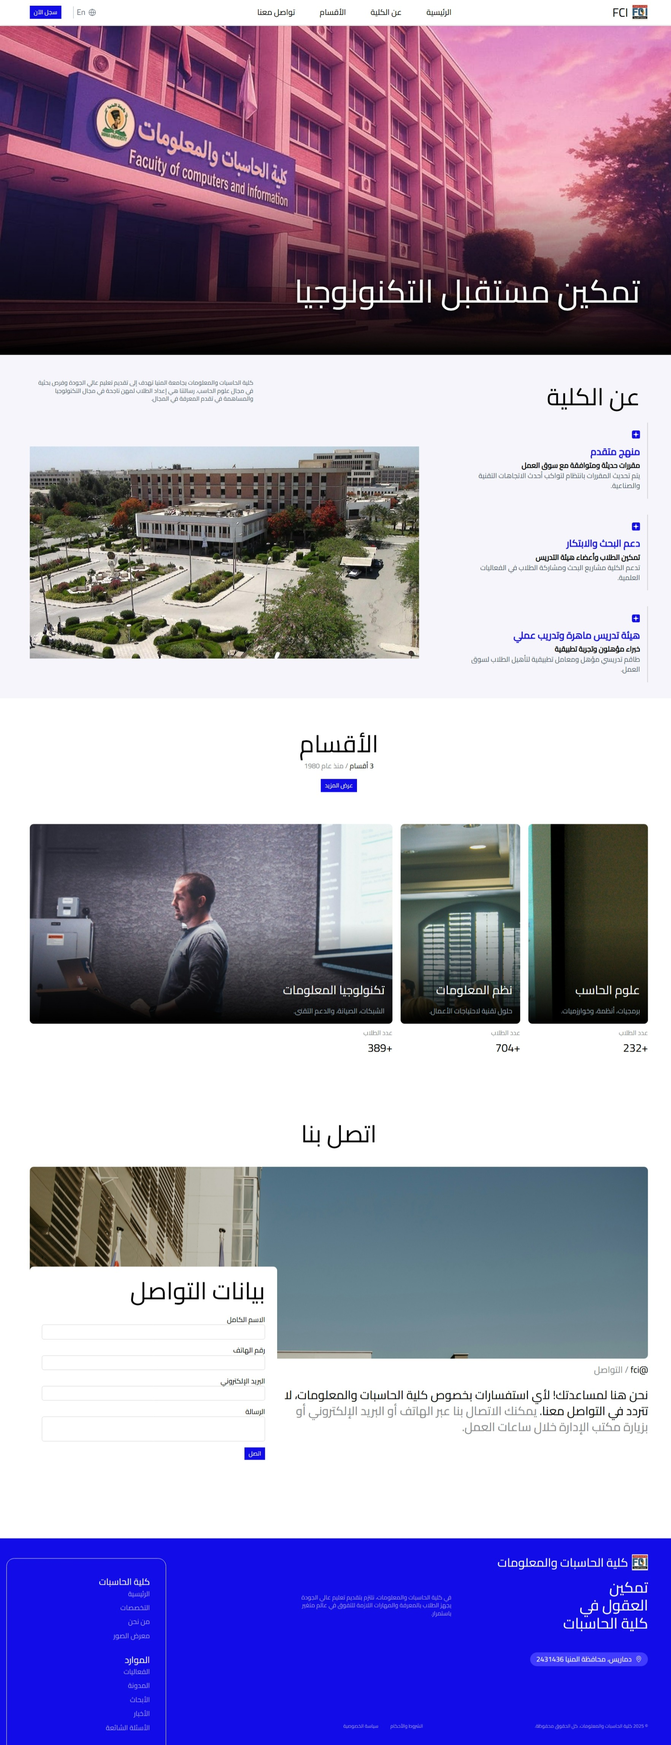
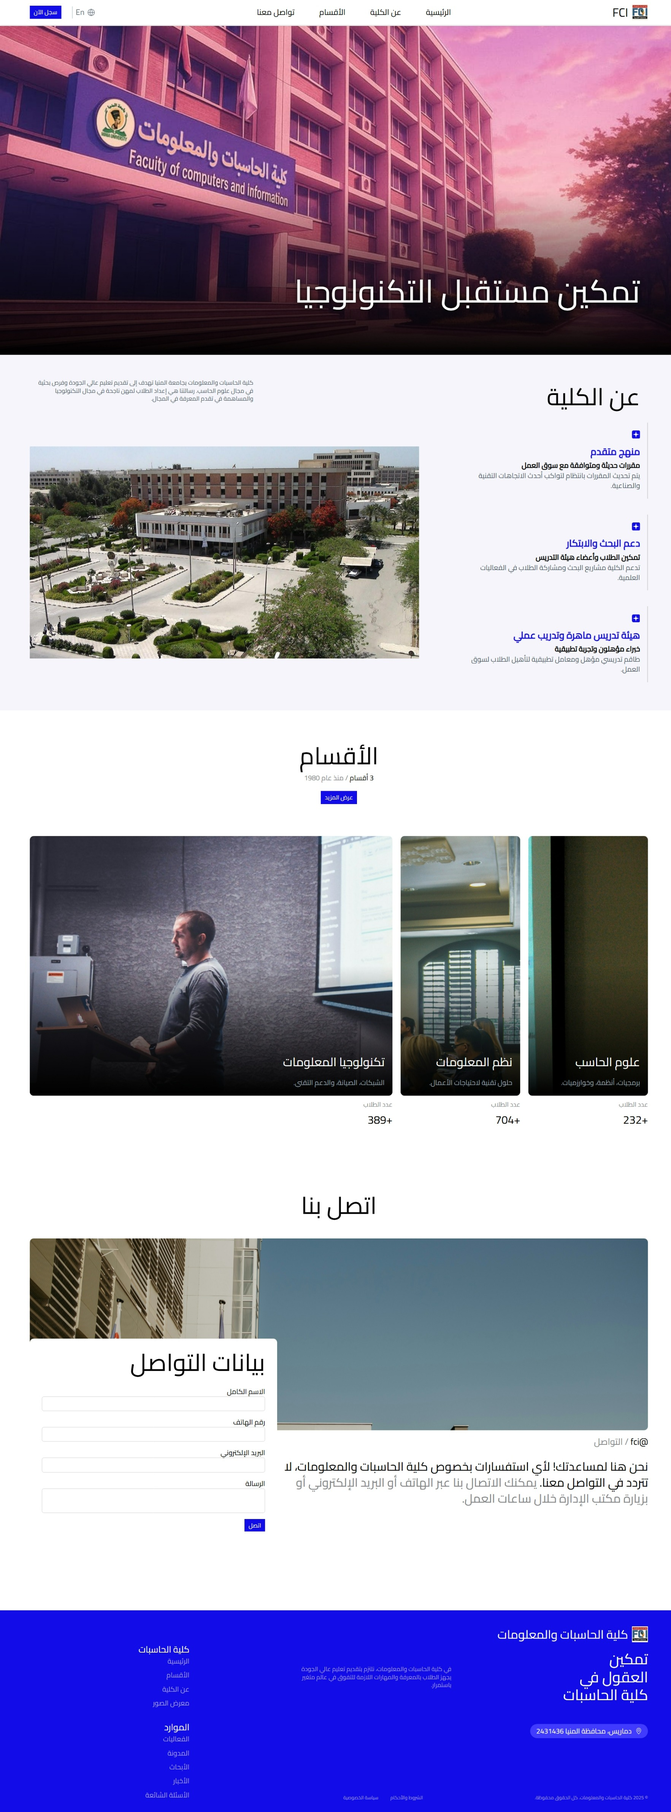
Update screenshots: Replace Ar.jpeg, CS Dept.jpeg, and En.jpeg with new versions

diff --git a/output.css b/output.css
@@ -1,2 +1,2 @@
 /*! tailwindcss v4.1.7 | MIT License | https://tailwindcss.com */
-@layer properties{@supports (((-webkit-hyphens:none)) and (not (margin-trim:inline))) or ((-moz-orient:inline) and (not (color:rgb(from red r g b)))){*,:before,:after,::backdrop{--tw-rotate-x:initial;--tw-rotate-y:initial;--tw-rotate-z:initial;--tw-skew-x:initial;--tw-skew-y:initial;--tw-border-style:solid;--tw-font-weight:initial;--tw-shadow:0 0 #0000;--tw-shadow-color:initial;--tw-shadow-alpha:100%;--tw-inset-shadow:0 0 #0000;--tw-inset-shadow-color:initial;--tw-inset-shadow-alpha:100%;--tw-ring-color:initial;--tw-ring-shadow:0 0 #0000;--tw-inset-ring-color:initial;--tw-inset-ring-shadow:0 0 #0000;--tw-ring-inset:initial;--tw-ring-offset-width:0px;--tw-ring-offset-color:#fff;--tw-ring-offset-shadow:0 0 #0000;--tw-duration:initial;--tw-content:"";--tw-outline-style:solid}}}@layer theme{:root,:host{--font-sans:ui-sans-serif,system-ui,sans-serif,"Apple Color Emoji","Segoe UI Emoji","Segoe UI Symbol","Noto Color Emoji";--font-mono:ui-monospace,SFMono-Regular,Menlo,Monaco,Consolas,"Liberation Mono","Courier New",monospace;--color-amber-50:oklch(98.7% .022 95.277);--color-sky-500:oklch(68.5% .169 237.323);--color-blue-600:oklch(54.6% .245 262.881);--color-blue-700:oklch(48.8% .243 264.376);--color-pink-500:oklch(65.6% .241 354.308);--color-pink-600:oklch(59.2% .249 .584);--color-gray-100:oklch(96.7% .003 264.542);--color-gray-200:oklch(92.8% .006 264.531);--color-gray-300:oklch(87.2% .01 258.338);--color-gray-400:oklch(70.7% .022 261.325);--color-gray-500:oklch(55.1% .027 264.364);--color-gray-600:oklch(44.6% .03 256.802);--color-black:#000;--color-white:#fff;--spacing:.25rem;--container-xs:20rem;--container-md:28rem;--text-xs:.75rem;--text-xs--line-height:calc(1/.75);--text-sm:.875rem;--text-sm--line-height:calc(1.25/.875);--text-lg:1.125rem;--text-lg--line-height:calc(1.75/1.125);--text-xl:1.25rem;--text-xl--line-height:calc(1.75/1.25);--text-2xl:1.5rem;--text-2xl--line-height:calc(2/1.5);--text-3xl:1.875rem;--text-3xl--line-height:calc(2.25/1.875);--text-4xl:2.25rem;--text-4xl--line-height:calc(2.5/2.25);--text-5xl:3rem;--text-5xl--line-height:1;--text-6xl:3.75rem;--text-6xl--line-height:1;--text-7xl:4.5rem;--text-7xl--line-height:1;--font-weight-thin:100;--font-weight-extralight:200;--font-weight-bold:700;--radius-md:.375rem;--radius-lg:.5rem;--radius-2xl:1rem;--default-transition-duration:.15s;--default-transition-timing-function:cubic-bezier(.4,0,.2,1);--default-font-family:var(--font-sans);--default-mono-font-family:var(--font-mono)}}@layer base{*,:after,:before,::backdrop{box-sizing:border-box;border:0 solid;margin:0;padding:0}::file-selector-button{box-sizing:border-box;border:0 solid;margin:0;padding:0}html,:host{-webkit-text-size-adjust:100%;tab-size:4;line-height:1.5;font-family:var(--default-font-family,ui-sans-serif,system-ui,sans-serif,"Apple Color Emoji","Segoe UI Emoji","Segoe UI Symbol","Noto Color Emoji");font-feature-settings:var(--default-font-feature-settings,normal);font-variation-settings:var(--default-font-variation-settings,normal);-webkit-tap-highlight-color:transparent}hr{height:0;color:inherit;border-top-width:1px}abbr:where([title]){-webkit-text-decoration:underline dotted;text-decoration:underline dotted}h1,h2,h3,h4,h5,h6{font-size:inherit;font-weight:inherit}a{color:inherit;-webkit-text-decoration:inherit;-webkit-text-decoration:inherit;-webkit-text-decoration:inherit;text-decoration:inherit}b,strong{font-weight:bolder}code,kbd,samp,pre{font-family:var(--default-mono-font-family,ui-monospace,SFMono-Regular,Menlo,Monaco,Consolas,"Liberation Mono","Courier New",monospace);font-feature-settings:var(--default-mono-font-feature-settings,normal);font-variation-settings:var(--default-mono-font-variation-settings,normal);font-size:1em}small{font-size:80%}sub,sup{vertical-align:baseline;font-size:75%;line-height:0;position:relative}sub{bottom:-.25em}sup{top:-.5em}table{text-indent:0;border-color:inherit;border-collapse:collapse}:-moz-focusring{outline:auto}progress{vertical-align:baseline}summary{display:list-item}ol,ul,menu{list-style:none}img,svg,video,canvas,audio,iframe,embed,object{vertical-align:middle;display:block}img,video{max-width:100%;height:auto}button,input,select,optgroup,textarea{font:inherit;font-feature-settings:inherit;font-variation-settings:inherit;letter-spacing:inherit;color:inherit;opacity:1;background-color:#0000;border-radius:0}::file-selector-button{font:inherit;font-feature-settings:inherit;font-variation-settings:inherit;letter-spacing:inherit;color:inherit;opacity:1;background-color:#0000;border-radius:0}:where(select:is([multiple],[size])) optgroup{font-weight:bolder}:where(select:is([multiple],[size])) optgroup option{padding-inline-start:20px}::file-selector-button{margin-inline-end:4px}::placeholder{opacity:1}@supports (not ((-webkit-appearance:-apple-pay-button))) or (contain-intrinsic-size:1px){::placeholder{color:currentColor}@supports (color:color-mix(in lab, red, red)){::placeholder{color:color-mix(in oklab,currentcolor 50%,transparent)}}}textarea{resize:vertical}::-webkit-search-decoration{-webkit-appearance:none}::-webkit-date-and-time-value{min-height:1lh;text-align:inherit}::-webkit-datetime-edit{display:inline-flex}::-webkit-datetime-edit-fields-wrapper{padding:0}::-webkit-datetime-edit{padding-block:0}::-webkit-datetime-edit-year-field{padding-block:0}::-webkit-datetime-edit-month-field{padding-block:0}::-webkit-datetime-edit-day-field{padding-block:0}::-webkit-datetime-edit-hour-field{padding-block:0}::-webkit-datetime-edit-minute-field{padding-block:0}::-webkit-datetime-edit-second-field{padding-block:0}::-webkit-datetime-edit-millisecond-field{padding-block:0}::-webkit-datetime-edit-meridiem-field{padding-block:0}:-moz-ui-invalid{box-shadow:none}button,input:where([type=button],[type=reset],[type=submit]){appearance:button}::file-selector-button{appearance:button}::-webkit-inner-spin-button{height:auto}::-webkit-outer-spin-button{height:auto}[hidden]:where(:not([hidden=until-found])){display:none!important}}@layer components;@layer utilities{.relative{position:relative}.sticky{position:sticky}.top-0{top:calc(var(--spacing)*0)}.top-2{top:calc(var(--spacing)*2)}.right-0{right:calc(var(--spacing)*0)}.right-\[-15\%\]{right:-15%}.bottom-60{bottom:calc(var(--spacing)*60)}.left-\[-15\%\]{left:-15%}.-z-20{z-index:calc(20*-1)}.z-10{z-index:10}.container{width:100%}@media (min-width:40rem){.container{max-width:40rem}}@media (min-width:48rem){.container{max-width:48rem}}@media (min-width:64rem){.container{max-width:64rem}}@media (min-width:80rem){.container{max-width:80rem}}@media (min-width:96rem){.container{max-width:96rem}}.\!mt-8{margin-top:calc(var(--spacing)*8)!important}.\!mt-12{margin-top:calc(var(--spacing)*12)!important}.mt-4{margin-top:calc(var(--spacing)*4)}.mt-6{margin-top:calc(var(--spacing)*6)}.mt-8{margin-top:calc(var(--spacing)*8)}.mt-16{margin-top:calc(var(--spacing)*16)}.\!mr-auto{margin-right:auto!important}.\!mb-16{margin-bottom:calc(var(--spacing)*16)!important}.mb-2{margin-bottom:calc(var(--spacing)*2)}.mb-4{margin-bottom:calc(var(--spacing)*4)}.mb-6{margin-bottom:calc(var(--spacing)*6)}.mb-10{margin-bottom:calc(var(--spacing)*10)}.mb-12{margin-bottom:calc(var(--spacing)*12)}.\!ml-auto{margin-left:auto!important}.contents{display:contents}.flex{display:flex}.grid{display:grid}.hidden{display:none}.\!h-full{height:100%!important}.h-6{height:calc(var(--spacing)*6)}.h-8{height:calc(var(--spacing)*8)}.h-\[350px\]{height:350px}.h-auto{height:auto}.h-fit{height:fit-content}.max-h-96{max-height:calc(var(--spacing)*96)}.w-6{width:calc(var(--spacing)*6)}.w-8{width:calc(var(--spacing)*8)}.w-36{width:calc(var(--spacing)*36)}.w-fit{width:fit-content}.w-full{width:100%}.max-w-full{max-width:100%}.max-w-xs{max-width:var(--container-xs)}.min-w-\[20rem\]{min-width:20rem}.grow{flex-grow:1}.grow-0{flex-grow:0}.grow-1{flex-grow:1}.basis-1\/3{flex-basis:33.3333%}.basis-auto{flex-basis:auto}.transform{transform:var(--tw-rotate-x,)var(--tw-rotate-y,)var(--tw-rotate-z,)var(--tw-skew-x,)var(--tw-skew-y,)}.cursor-pointer{cursor:pointer}.grid-cols-2{grid-template-columns:repeat(2,minmax(0,1fr))}.flex-col{flex-direction:column}.flex-col-reverse{flex-direction:column-reverse}.flex-row{flex-direction:row}.items-center{align-items:center}.items-end-safe{align-items:safe flex-end}.items-stretch{align-items:stretch}.justify-between{justify-content:space-between}.justify-center{justify-content:center}.justify-end{justify-content:flex-end}.justify-end-safe{justify-content:safe flex-end}.justify-start{justify-content:flex-start}.gap-1{gap:calc(var(--spacing)*1)}.gap-1\.5{gap:calc(var(--spacing)*1.5)}.gap-2{gap:calc(var(--spacing)*2)}.gap-3{gap:calc(var(--spacing)*3)}.gap-4{gap:calc(var(--spacing)*4)}.gap-6{gap:calc(var(--spacing)*6)}.gap-8{gap:calc(var(--spacing)*8)}.gap-10{gap:calc(var(--spacing)*10)}.gap-12{gap:calc(var(--spacing)*12)}.gap-16{gap:calc(var(--spacing)*16)}.gap-56{gap:calc(var(--spacing)*56)}.self-center{align-self:center}.self-start{align-self:flex-start}.truncate{text-overflow:ellipsis;white-space:nowrap;overflow:hidden}.overflow-hidden{overflow:hidden}.rounded-2xl{border-radius:var(--radius-2xl)}.rounded-\[8px\]{border-radius:8px}.rounded-\[20px\]{border-radius:20px}.rounded-full{border-radius:3.40282e38px}.rounded-lg{border-radius:var(--radius-lg)}.border,.border-1{border-style:var(--tw-border-style);border-width:1px}.border-2{border-style:var(--tw-border-style);border-width:2px}.border-t-0{border-top-style:var(--tw-border-style);border-top-width:0}.border-\[\#f1f1f1\]{border-color:#f1f1f1}.border-gray-300{border-color:var(--color-gray-300)}.border-transparent{border-color:#0000}.bg-\[\#120ce8\]{background-color:#120ce8}.bg-\[\#413bff\]{background-color:#413bff}.bg-\[\#f6f5fb\]{background-color:#f6f5fb}.bg-white{background-color:var(--color-white)}.object-cover{object-fit:cover}.p-2{padding:calc(var(--spacing)*2)}.p-4{padding:calc(var(--spacing)*4)}.p-8{padding:calc(var(--spacing)*8)}.px-2{padding-inline:calc(var(--spacing)*2)}.px-3{padding-inline:calc(var(--spacing)*3)}.px-6{padding-inline:calc(var(--spacing)*6)}.py-1{padding-block:calc(var(--spacing)*1)}.py-2{padding-block:calc(var(--spacing)*2)}.py-4{padding-block:calc(var(--spacing)*4)}.py-16{padding-block:calc(var(--spacing)*16)}.pt-2{padding-top:calc(var(--spacing)*2)}.pt-4{padding-top:calc(var(--spacing)*4)}.pt-8{padding-top:calc(var(--spacing)*8)}.pt-12{padding-top:calc(var(--spacing)*12)}.pb-4{padding-bottom:calc(var(--spacing)*4)}.pb-5{padding-bottom:calc(var(--spacing)*5)}.pb-14{padding-bottom:calc(var(--spacing)*14)}.pb-16{padding-bottom:calc(var(--spacing)*16)}.pb-24{padding-bottom:calc(var(--spacing)*24)}.text-center{text-align:center}.text-right{text-align:right}.font-sans{font-family:var(--font-sans)}.text-2xl{font-size:var(--text-2xl);line-height:var(--tw-leading,var(--text-2xl--line-height))}.text-3xl{font-size:var(--text-3xl);line-height:var(--tw-leading,var(--text-3xl--line-height))}.text-4xl{font-size:var(--text-4xl);line-height:var(--tw-leading,var(--text-4xl--line-height))}.text-5xl{font-size:var(--text-5xl);line-height:var(--tw-leading,var(--text-5xl--line-height))}.text-6xl{font-size:var(--text-6xl);line-height:var(--tw-leading,var(--text-6xl--line-height))}.text-lg{font-size:var(--text-lg);line-height:var(--tw-leading,var(--text-lg--line-height))}.text-sm{font-size:var(--text-sm);line-height:var(--tw-leading,var(--text-sm--line-height))}.text-xl{font-size:var(--text-xl);line-height:var(--tw-leading,var(--text-xl--line-height))}.text-xs{font-size:var(--text-xs);line-height:var(--tw-leading,var(--text-xs--line-height))}.text-\[12px\]{font-size:12px}.font-bold{--tw-font-weight:var(--font-weight-bold);font-weight:var(--font-weight-bold)}.font-extralight{--tw-font-weight:var(--font-weight-extralight);font-weight:var(--font-weight-extralight)}.font-thin{--tw-font-weight:var(--font-weight-thin);font-weight:var(--font-weight-thin)}.text-nowrap{text-wrap:nowrap}.whitespace-nowrap{white-space:nowrap}.text-\[\#85858a\]{color:#85858a}.text-\[\#a09ef6\]{color:#a09ef6}.text-amber-50{color:var(--color-amber-50)}.text-gray-400{color:var(--color-gray-400)}.text-gray-500{color:var(--color-gray-500)}.text-gray-600{color:var(--color-gray-600)}.text-white{color:var(--color-white)}.uppercase{text-transform:uppercase}.shadow-lg{--tw-shadow:0 10px 15px -3px var(--tw-shadow-color,#0000001a),0 4px 6px -4px var(--tw-shadow-color,#0000001a);box-shadow:var(--tw-inset-shadow),var(--tw-inset-ring-shadow),var(--tw-ring-offset-shadow),var(--tw-ring-shadow),var(--tw-shadow)}.shadow-md{--tw-shadow:0 4px 6px -1px var(--tw-shadow-color,#0000001a),0 2px 4px -2px var(--tw-shadow-color,#0000001a);box-shadow:var(--tw-inset-shadow),var(--tw-inset-ring-shadow),var(--tw-ring-offset-shadow),var(--tw-ring-shadow),var(--tw-shadow)}.transition-all{transition-property:all;transition-timing-function:var(--tw-ease,var(--default-transition-timing-function));transition-duration:var(--tw-duration,var(--default-transition-duration))}.duration-300{--tw-duration:.3s;transition-duration:.3s}.after\:mr-1\.5:after{content:var(--tw-content);margin-right:calc(var(--spacing)*1.5)}.after\:ml-1\.5:after{content:var(--tw-content);margin-left:calc(var(--spacing)*1.5)}.after\:block:after{content:var(--tw-content);display:block}.after\:h-6:after{content:var(--tw-content);height:calc(var(--spacing)*6)}.after\:w-0\.25:after{content:var(--tw-content);width:calc(var(--spacing)*.25)}.after\:bg-gray-300:after{content:var(--tw-content);background-color:var(--color-gray-300)}.after\:content-\[\'\'\]:after{content:var(--tw-content);--tw-content:"";content:var(--tw-content)}.invalid\:border-pink-500:invalid{border-color:var(--color-pink-500)}.invalid\:text-pink-600:invalid{color:var(--color-pink-600)}@media (hover:hover){.hover\:border-gray-600:hover{border-color:var(--color-gray-600)}.hover\:transition-all:hover{transition-property:all;transition-timing-function:var(--tw-ease,var(--default-transition-timing-function));transition-duration:var(--tw-duration,var(--default-transition-duration))}.hover\:duration-300:hover{--tw-duration:.3s;transition-duration:.3s}}.focus\:border-sky-500:focus{border-color:var(--color-sky-500)}.focus\:outline:focus{outline-style:var(--tw-outline-style);outline-width:1px}.focus\:outline-sky-500:focus{outline-color:var(--color-sky-500)}.focus\:invalid\:border-pink-500:focus:invalid{border-color:var(--color-pink-500)}.focus\:invalid\:outline-pink-500:focus:invalid{outline-color:var(--color-pink-500)}@media (min-width:40rem){.sm\:flex{display:flex}}@media (min-width:48rem){.md\:relative{position:relative}.md\:top-6{top:calc(var(--spacing)*6)}.md\:right-15{right:calc(var(--spacing)*15)}.md\:bottom-28{bottom:calc(var(--spacing)*28)}.md\:left-15{left:calc(var(--spacing)*15)}.md\:mt-0{margin-top:calc(var(--spacing)*0)}.md\:\!mr-0{margin-right:calc(var(--spacing)*0)!important}.md\:mb-0{margin-bottom:calc(var(--spacing)*0)}.md\:\!ml-0{margin-left:calc(var(--spacing)*0)!important}.md\:block{display:block}.md\:flex{display:flex}.md\:hidden{display:none}.md\:h-8{height:calc(var(--spacing)*8)}.md\:w-8{width:calc(var(--spacing)*8)}.md\:w-72{width:calc(var(--spacing)*72)}.md\:w-auto{width:auto}.md\:\!max-w-1\/2{max-width:50%!important}.md\:max-w-\[85\%\]{max-width:85%}.md\:basis-1\/2{flex-basis:50%}.md\:flex-row{flex-direction:row}.md\:flex-row-reverse{flex-direction:row-reverse}.md\:items-start{align-items:flex-start}.md\:justify-between{justify-content:space-between}.md\:gap-4{gap:calc(var(--spacing)*4)}.md\:gap-6{gap:calc(var(--spacing)*6)}.md\:gap-12{gap:calc(var(--spacing)*12)}.md\:self-start{align-self:flex-start}.md\:border-\[8px\]{border-style:var(--tw-border-style);border-width:8px}.md\:border-white{border-color:var(--color-white)}.md\:pr-4{padding-right:calc(var(--spacing)*4)}.md\:pl-4{padding-left:calc(var(--spacing)*4)}.md\:text-left{text-align:left}.md\:text-right{text-align:right}.md\:text-2xl{font-size:var(--text-2xl);line-height:var(--tw-leading,var(--text-2xl--line-height))}.md\:text-7xl{font-size:var(--text-7xl);line-height:var(--tw-leading,var(--text-7xl--line-height))}.md\:text-lg{font-size:var(--text-lg);line-height:var(--tw-leading,var(--text-lg--line-height))}}@media (min-width:64rem){.lg\:relative{position:relative}.lg\:right-24{right:calc(var(--spacing)*24)}.lg\:bottom-48{bottom:calc(var(--spacing)*48)}.lg\:left-24{left:calc(var(--spacing)*24)}.lg\:mt-0{margin-top:calc(var(--spacing)*0)}.lg\:mt-20{margin-top:calc(var(--spacing)*20)}.lg\:flex{display:flex}.lg\:\!h-60{height:calc(var(--spacing)*60)!important}.lg\:h-\[500px\]{height:500px}.lg\:h-\[650px\]{height:650px}.lg\:max-w-3\/4{max-width:75%}.lg\:basis-2\/5{flex-basis:40%}.lg\:basis-3\/5{flex-basis:60%}.lg\:basis-4\/6{flex-basis:66.6667%}.lg\:basis-md{flex-basis:var(--container-md)}.lg\:flex-row{flex-direction:row}.lg\:items-center{align-items:center}.lg\:items-start{align-items:flex-start}.lg\:gap-4{gap:calc(var(--spacing)*4)}.lg\:gap-8{gap:calc(var(--spacing)*8)}.lg\:gap-56{gap:calc(var(--spacing)*56)}.lg\:border-none{--tw-border-style:none;border-style:none}.lg\:pr-4{padding-right:calc(var(--spacing)*4)}.lg\:pl-4{padding-left:calc(var(--spacing)*4)}.lg\:text-left{text-align:left}.lg\:text-right{text-align:right}.lg\:text-2xl{font-size:var(--text-2xl);line-height:var(--tw-leading,var(--text-2xl--line-height))}}}@font-face{font-family:NimbusSans;src:url(assets/fonts/NimbusSanL-Reg.otf);font-weight:400;font-style:normal}*{box-sizing:border-box;font-family:NimbusSans,sans-serif;font-weight:lighter}::selection{color:#fff;background-color:#120ce8}footer ::selcetion{color:#120ce8;background-color:#fff}body{scroll-snap-type:y mandatory;scroll-behavior:smooth;margin:0;overflow-y:scroll}body>section{scroll-snap-align:start}.layer{z-index:-10;background-image:linear-gradient(#0000 50%,#000 100%);width:100%;height:100%;position:absolute;top:0;left:0}li,a{cursor:pointer}button{color:#fff;cursor:pointer;background-color:#120ce8;padding:.25rem .5rem;font-size:x-small;font-weight:lighter}.container{max-width:95%;margin:0 auto;padding:0 32px}section h3:first-of-type{font-size:clamp(2rem,5vw,3rem)}#hero{background-image:url(assets/college.jpg);background-position:30% 10%;background-repeat:no-repeat;background-size:cover;margin-top:3px;height:calc(100vh - 50px)!important}@media (min-width:1024px){#hero{background-position:0 100%}}#hero h2{color:#fff;text-shadow:0 0 10px #000;font-size:clamp(1.5rem,8vw,4rem)}.academic-excellence>div>div{padding:1rem;position:relative}.academic-excellence>div>div:before{content:"";background-color:#d3d3d3;width:2px;height:100%;position:absolute;top:0;left:0}.academic-excellence i{color:#fff;position:relative}.academic-excellence i:before{content:"";background-color:#120ce8;width:100%;height:100%;position:absolute;top:0;left:0}.academic-excellence svg{border-radius:20%;margin-bottom:.75rem}.academic-excellence h5{color:#120ce8;margin:.25rem 0;font-size:1.2rem;font-weight:700}.academic-excellence h6{font-size:.9rem;font-weight:700}.department .figure{z-index:-20;background-repeat:no-repeat;background-size:cover;background-attachment:fixed;overflow:hidden}.department .figure.computer-science{background-image:url(assets/computer-science-1.jpg)}.department .figure.information-systems{background-image:url(assets/information-systems.jpg)}.department .figure.information-technology{background-image:url(assets/information-technology.jpg);background-position:0}@media (max-width:1024px){.department .figure{background-attachment:initial}}.department{min-width:300px;transition:flex-grow .7s}.department:hover{flex-grow:17}.department .statistics{flex-direction:column;gap:.25rem;margin-top:.5rem;display:flex}.department .statistics span:first-child{color:#85858a;font-size:.8rem}.department .statistics span:last-child{font-size:1.4rem}.form__group>*{display:block}.form__group>input,textarea{resize:none;border:1px solid #d3d3d3;border-radius:.25rem;width:100%;margin-bottom:.75rem;padding:.25rem}footer .links li{padding-bottom:.5rem}footer .links li:hover{color:#fff;transition:all .2s}@property --tw-rotate-x{syntax:"*";inherits:false}@property --tw-rotate-y{syntax:"*";inherits:false}@property --tw-rotate-z{syntax:"*";inherits:false}@property --tw-skew-x{syntax:"*";inherits:false}@property --tw-skew-y{syntax:"*";inherits:false}@property --tw-border-style{syntax:"*";inherits:false;initial-value:solid}@property --tw-font-weight{syntax:"*";inherits:false}@property --tw-shadow{syntax:"*";inherits:false;initial-value:0 0 #0000}@property --tw-shadow-color{syntax:"*";inherits:false}@property --tw-shadow-alpha{syntax:"<percentage>";inherits:false;initial-value:100%}@property --tw-inset-shadow{syntax:"*";inherits:false;initial-value:0 0 #0000}@property --tw-inset-shadow-color{syntax:"*";inherits:false}@property --tw-inset-shadow-alpha{syntax:"<percentage>";inherits:false;initial-value:100%}@property --tw-ring-color{syntax:"*";inherits:false}@property --tw-ring-shadow{syntax:"*";inherits:false;initial-value:0 0 #0000}@property --tw-inset-ring-color{syntax:"*";inherits:false}@property --tw-inset-ring-shadow{syntax:"*";inherits:false;initial-value:0 0 #0000}@property --tw-ring-inset{syntax:"*";inherits:false}@property --tw-ring-offset-width{syntax:"<length>";inherits:false;initial-value:0}@property --tw-ring-offset-color{syntax:"*";inherits:false;initial-value:#fff}@property --tw-ring-offset-shadow{syntax:"*";inherits:false;initial-value:0 0 #0000}@property --tw-duration{syntax:"*";inherits:false}@property --tw-content{syntax:"*";inherits:false;initial-value:""}@property --tw-outline-style{syntax:"*";inherits:false;initial-value:solid}
+@layer properties{@supports (((-webkit-hyphens:none)) and (not (margin-trim:inline))) or ((-moz-orient:inline) and (not (color:rgb(from red r g b)))){*,:before,:after,::backdrop{--tw-rotate-x:initial;--tw-rotate-y:initial;--tw-rotate-z:initial;--tw-skew-x:initial;--tw-skew-y:initial;--tw-border-style:solid;--tw-font-weight:initial;--tw-shadow:0 0 #0000;--tw-shadow-color:initial;--tw-shadow-alpha:100%;--tw-inset-shadow:0 0 #0000;--tw-inset-shadow-color:initial;--tw-inset-shadow-alpha:100%;--tw-ring-color:initial;--tw-ring-shadow:0 0 #0000;--tw-inset-ring-color:initial;--tw-inset-ring-shadow:0 0 #0000;--tw-ring-inset:initial;--tw-ring-offset-width:0px;--tw-ring-offset-color:#fff;--tw-ring-offset-shadow:0 0 #0000;--tw-duration:initial;--tw-content:"";--tw-outline-style:solid}}}@layer theme{:root,:host{--font-sans:ui-sans-serif,system-ui,sans-serif,"Apple Color Emoji","Segoe UI Emoji","Segoe UI Symbol","Noto Color Emoji";--font-mono:ui-monospace,SFMono-Regular,Menlo,Monaco,Consolas,"Liberation Mono","Courier New",monospace;--color-amber-50:oklch(98.7% .022 95.277);--color-sky-500:oklch(68.5% .169 237.323);--color-pink-500:oklch(65.6% .241 354.308);--color-pink-600:oklch(59.2% .249 .584);--color-gray-300:oklch(87.2% .01 258.338);--color-gray-400:oklch(70.7% .022 261.325);--color-gray-500:oklch(55.1% .027 264.364);--color-gray-600:oklch(44.6% .03 256.802);--color-white:#fff;--spacing:.25rem;--container-xs:20rem;--container-md:28rem;--text-xs:.75rem;--text-xs--line-height:calc(1/.75);--text-sm:.875rem;--text-sm--line-height:calc(1.25/.875);--text-lg:1.125rem;--text-lg--line-height:calc(1.75/1.125);--text-xl:1.25rem;--text-xl--line-height:calc(1.75/1.25);--text-2xl:1.5rem;--text-2xl--line-height:calc(2/1.5);--text-3xl:1.875rem;--text-3xl--line-height:calc(2.25/1.875);--text-4xl:2.25rem;--text-4xl--line-height:calc(2.5/2.25);--text-5xl:3rem;--text-5xl--line-height:1;--text-6xl:3.75rem;--text-6xl--line-height:1;--text-7xl:4.5rem;--text-7xl--line-height:1;--font-weight-thin:100;--font-weight-extralight:200;--font-weight-bold:700;--radius-lg:.5rem;--radius-2xl:1rem;--default-transition-duration:.15s;--default-transition-timing-function:cubic-bezier(.4,0,.2,1);--default-font-family:var(--font-sans);--default-mono-font-family:var(--font-mono)}}@layer base{*,:after,:before,::backdrop{box-sizing:border-box;border:0 solid;margin:0;padding:0}::file-selector-button{box-sizing:border-box;border:0 solid;margin:0;padding:0}html,:host{-webkit-text-size-adjust:100%;tab-size:4;line-height:1.5;font-family:var(--default-font-family,ui-sans-serif,system-ui,sans-serif,"Apple Color Emoji","Segoe UI Emoji","Segoe UI Symbol","Noto Color Emoji");font-feature-settings:var(--default-font-feature-settings,normal);font-variation-settings:var(--default-font-variation-settings,normal);-webkit-tap-highlight-color:transparent}hr{height:0;color:inherit;border-top-width:1px}abbr:where([title]){-webkit-text-decoration:underline dotted;text-decoration:underline dotted}h1,h2,h3,h4,h5,h6{font-size:inherit;font-weight:inherit}a{color:inherit;-webkit-text-decoration:inherit;-webkit-text-decoration:inherit;-webkit-text-decoration:inherit;text-decoration:inherit}b,strong{font-weight:bolder}code,kbd,samp,pre{font-family:var(--default-mono-font-family,ui-monospace,SFMono-Regular,Menlo,Monaco,Consolas,"Liberation Mono","Courier New",monospace);font-feature-settings:var(--default-mono-font-feature-settings,normal);font-variation-settings:var(--default-mono-font-variation-settings,normal);font-size:1em}small{font-size:80%}sub,sup{vertical-align:baseline;font-size:75%;line-height:0;position:relative}sub{bottom:-.25em}sup{top:-.5em}table{text-indent:0;border-color:inherit;border-collapse:collapse}:-moz-focusring{outline:auto}progress{vertical-align:baseline}summary{display:list-item}ol,ul,menu{list-style:none}img,svg,video,canvas,audio,iframe,embed,object{vertical-align:middle;display:block}img,video{max-width:100%;height:auto}button,input,select,optgroup,textarea{font:inherit;font-feature-settings:inherit;font-variation-settings:inherit;letter-spacing:inherit;color:inherit;opacity:1;background-color:#0000;border-radius:0}::file-selector-button{font:inherit;font-feature-settings:inherit;font-variation-settings:inherit;letter-spacing:inherit;color:inherit;opacity:1;background-color:#0000;border-radius:0}:where(select:is([multiple],[size])) optgroup{font-weight:bolder}:where(select:is([multiple],[size])) optgroup option{padding-inline-start:20px}::file-selector-button{margin-inline-end:4px}::placeholder{opacity:1}@supports (not ((-webkit-appearance:-apple-pay-button))) or (contain-intrinsic-size:1px){::placeholder{color:currentColor}@supports (color:color-mix(in lab, red, red)){::placeholder{color:color-mix(in oklab,currentcolor 50%,transparent)}}}textarea{resize:vertical}::-webkit-search-decoration{-webkit-appearance:none}::-webkit-date-and-time-value{min-height:1lh;text-align:inherit}::-webkit-datetime-edit{display:inline-flex}::-webkit-datetime-edit-fields-wrapper{padding:0}::-webkit-datetime-edit{padding-block:0}::-webkit-datetime-edit-year-field{padding-block:0}::-webkit-datetime-edit-month-field{padding-block:0}::-webkit-datetime-edit-day-field{padding-block:0}::-webkit-datetime-edit-hour-field{padding-block:0}::-webkit-datetime-edit-minute-field{padding-block:0}::-webkit-datetime-edit-second-field{padding-block:0}::-webkit-datetime-edit-millisecond-field{padding-block:0}::-webkit-datetime-edit-meridiem-field{padding-block:0}:-moz-ui-invalid{box-shadow:none}button,input:where([type=button],[type=reset],[type=submit]){appearance:button}::file-selector-button{appearance:button}::-webkit-inner-spin-button{height:auto}::-webkit-outer-spin-button{height:auto}[hidden]:where(:not([hidden=until-found])){display:none!important}}@layer components;@layer utilities{.relative{position:relative}.sticky{position:sticky}.top-0{top:calc(var(--spacing)*0)}.top-2{top:calc(var(--spacing)*2)}.right-0{right:calc(var(--spacing)*0)}.right-\[-15\%\]{right:-15%}.bottom-60{bottom:calc(var(--spacing)*60)}.left-\[-15\%\]{left:-15%}.-z-20{z-index:calc(20*-1)}.z-10{z-index:10}.container{width:100%}@media (min-width:40rem){.container{max-width:40rem}}@media (min-width:48rem){.container{max-width:48rem}}@media (min-width:64rem){.container{max-width:64rem}}@media (min-width:80rem){.container{max-width:80rem}}@media (min-width:96rem){.container{max-width:96rem}}.\!mt-8{margin-top:calc(var(--spacing)*8)!important}.\!mt-12{margin-top:calc(var(--spacing)*12)!important}.mt-4{margin-top:calc(var(--spacing)*4)}.mt-6{margin-top:calc(var(--spacing)*6)}.mt-8{margin-top:calc(var(--spacing)*8)}.mt-16{margin-top:calc(var(--spacing)*16)}.\!mr-auto{margin-right:auto!important}.\!mb-16{margin-bottom:calc(var(--spacing)*16)!important}.mb-2{margin-bottom:calc(var(--spacing)*2)}.mb-4{margin-bottom:calc(var(--spacing)*4)}.mb-6{margin-bottom:calc(var(--spacing)*6)}.mb-10{margin-bottom:calc(var(--spacing)*10)}.mb-12{margin-bottom:calc(var(--spacing)*12)}.\!ml-auto{margin-left:auto!important}.contents{display:contents}.flex{display:flex}.grid{display:grid}.hidden{display:none}.\!h-full{height:100%!important}.h-6{height:calc(var(--spacing)*6)}.h-8{height:calc(var(--spacing)*8)}.h-\[350px\]{height:350px}.h-auto{height:auto}.h-fit{height:fit-content}.max-h-96{max-height:calc(var(--spacing)*96)}.w-6{width:calc(var(--spacing)*6)}.w-8{width:calc(var(--spacing)*8)}.w-36{width:calc(var(--spacing)*36)}.w-fit{width:fit-content}.w-full{width:100%}.max-w-full{max-width:100%}.max-w-xs{max-width:var(--container-xs)}.min-w-\[20rem\]{min-width:20rem}.grow{flex-grow:1}.grow-0{flex-grow:0}.grow-1{flex-grow:1}.basis-1\/3{flex-basis:33.3333%}.basis-auto{flex-basis:auto}.transform{transform:var(--tw-rotate-x,)var(--tw-rotate-y,)var(--tw-rotate-z,)var(--tw-skew-x,)var(--tw-skew-y,)}.cursor-pointer{cursor:pointer}.grid-cols-2{grid-template-columns:repeat(2,minmax(0,1fr))}.flex-col{flex-direction:column}.flex-col-reverse{flex-direction:column-reverse}.flex-row{flex-direction:row}.items-center{align-items:center}.items-end-safe{align-items:safe flex-end}.items-stretch{align-items:stretch}.justify-between{justify-content:space-between}.justify-center{justify-content:center}.justify-end{justify-content:flex-end}.justify-end-safe{justify-content:safe flex-end}.justify-start{justify-content:flex-start}.gap-1{gap:calc(var(--spacing)*1)}.gap-1\.5{gap:calc(var(--spacing)*1.5)}.gap-2{gap:calc(var(--spacing)*2)}.gap-3{gap:calc(var(--spacing)*3)}.gap-4{gap:calc(var(--spacing)*4)}.gap-6{gap:calc(var(--spacing)*6)}.gap-8{gap:calc(var(--spacing)*8)}.gap-10{gap:calc(var(--spacing)*10)}.gap-12{gap:calc(var(--spacing)*12)}.gap-16{gap:calc(var(--spacing)*16)}.gap-56{gap:calc(var(--spacing)*56)}.self-center{align-self:center}.self-start{align-self:flex-start}.truncate{text-overflow:ellipsis;white-space:nowrap;overflow:hidden}.overflow-hidden{overflow:hidden}.rounded-2xl{border-radius:var(--radius-2xl)}.rounded-\[8px\]{border-radius:8px}.rounded-\[20px\]{border-radius:20px}.rounded-full{border-radius:3.40282e38px}.rounded-lg{border-radius:var(--radius-lg)}.border,.border-1{border-style:var(--tw-border-style);border-width:1px}.border-2{border-style:var(--tw-border-style);border-width:2px}.border-t-0{border-top-style:var(--tw-border-style);border-top-width:0}.border-\[\#f1f1f1\]{border-color:#f1f1f1}.border-gray-300{border-color:var(--color-gray-300)}.border-transparent{border-color:#0000}.bg-\[\#120ce8\]{background-color:#120ce8}.bg-\[\#413bff\]{background-color:#413bff}.bg-\[\#f6f5fb\]{background-color:#f6f5fb}.bg-white{background-color:var(--color-white)}.object-cover{object-fit:cover}.p-2{padding:calc(var(--spacing)*2)}.p-4{padding:calc(var(--spacing)*4)}.p-8{padding:calc(var(--spacing)*8)}.px-2{padding-inline:calc(var(--spacing)*2)}.px-3{padding-inline:calc(var(--spacing)*3)}.px-6{padding-inline:calc(var(--spacing)*6)}.py-1{padding-block:calc(var(--spacing)*1)}.py-2{padding-block:calc(var(--spacing)*2)}.py-4{padding-block:calc(var(--spacing)*4)}.py-16{padding-block:calc(var(--spacing)*16)}.pt-2{padding-top:calc(var(--spacing)*2)}.pt-4{padding-top:calc(var(--spacing)*4)}.pt-8{padding-top:calc(var(--spacing)*8)}.pt-12{padding-top:calc(var(--spacing)*12)}.pb-4{padding-bottom:calc(var(--spacing)*4)}.pb-5{padding-bottom:calc(var(--spacing)*5)}.pb-14{padding-bottom:calc(var(--spacing)*14)}.pb-16{padding-bottom:calc(var(--spacing)*16)}.pb-24{padding-bottom:calc(var(--spacing)*24)}.text-center{text-align:center}.text-right{text-align:right}.font-sans{font-family:var(--font-sans)}.text-2xl{font-size:var(--text-2xl);line-height:var(--tw-leading,var(--text-2xl--line-height))}.text-3xl{font-size:var(--text-3xl);line-height:var(--tw-leading,var(--text-3xl--line-height))}.text-4xl{font-size:var(--text-4xl);line-height:var(--tw-leading,var(--text-4xl--line-height))}.text-5xl{font-size:var(--text-5xl);line-height:var(--tw-leading,var(--text-5xl--line-height))}.text-6xl{font-size:var(--text-6xl);line-height:var(--tw-leading,var(--text-6xl--line-height))}.text-lg{font-size:var(--text-lg);line-height:var(--tw-leading,var(--text-lg--line-height))}.text-sm{font-size:var(--text-sm);line-height:var(--tw-leading,var(--text-sm--line-height))}.text-xl{font-size:var(--text-xl);line-height:var(--tw-leading,var(--text-xl--line-height))}.text-xs{font-size:var(--text-xs);line-height:var(--tw-leading,var(--text-xs--line-height))}.text-\[12px\]{font-size:12px}.font-bold{--tw-font-weight:var(--font-weight-bold);font-weight:var(--font-weight-bold)}.font-extralight{--tw-font-weight:var(--font-weight-extralight);font-weight:var(--font-weight-extralight)}.font-thin{--tw-font-weight:var(--font-weight-thin);font-weight:var(--font-weight-thin)}.text-nowrap{text-wrap:nowrap}.whitespace-nowrap{white-space:nowrap}.text-\[\#85858a\]{color:#85858a}.text-\[\#a09ef6\]{color:#a09ef6}.text-amber-50{color:var(--color-amber-50)}.text-gray-400{color:var(--color-gray-400)}.text-gray-500{color:var(--color-gray-500)}.text-gray-600{color:var(--color-gray-600)}.text-white{color:var(--color-white)}.uppercase{text-transform:uppercase}.shadow-lg{--tw-shadow:0 10px 15px -3px var(--tw-shadow-color,#0000001a),0 4px 6px -4px var(--tw-shadow-color,#0000001a);box-shadow:var(--tw-inset-shadow),var(--tw-inset-ring-shadow),var(--tw-ring-offset-shadow),var(--tw-ring-shadow),var(--tw-shadow)}.shadow-md{--tw-shadow:0 4px 6px -1px var(--tw-shadow-color,#0000001a),0 2px 4px -2px var(--tw-shadow-color,#0000001a);box-shadow:var(--tw-inset-shadow),var(--tw-inset-ring-shadow),var(--tw-ring-offset-shadow),var(--tw-ring-shadow),var(--tw-shadow)}.transition-all{transition-property:all;transition-timing-function:var(--tw-ease,var(--default-transition-timing-function));transition-duration:var(--tw-duration,var(--default-transition-duration))}.duration-300{--tw-duration:.3s;transition-duration:.3s}.after\:mr-1\.5:after{content:var(--tw-content);margin-right:calc(var(--spacing)*1.5)}.after\:ml-1\.5:after{content:var(--tw-content);margin-left:calc(var(--spacing)*1.5)}.after\:block:after{content:var(--tw-content);display:block}.after\:h-6:after{content:var(--tw-content);height:calc(var(--spacing)*6)}.after\:w-0\.25:after{content:var(--tw-content);width:calc(var(--spacing)*.25)}.after\:bg-gray-300:after{content:var(--tw-content);background-color:var(--color-gray-300)}.after\:content-\[\'\'\]:after{content:var(--tw-content);--tw-content:"";content:var(--tw-content)}.invalid\:border-pink-500:invalid{border-color:var(--color-pink-500)}.invalid\:text-pink-600:invalid{color:var(--color-pink-600)}@media (hover:hover){.hover\:border-gray-600:hover{border-color:var(--color-gray-600)}.hover\:transition-all:hover{transition-property:all;transition-timing-function:var(--tw-ease,var(--default-transition-timing-function));transition-duration:var(--tw-duration,var(--default-transition-duration))}.hover\:duration-300:hover{--tw-duration:.3s;transition-duration:.3s}}.focus\:border-sky-500:focus{border-color:var(--color-sky-500)}.focus\:outline:focus{outline-style:var(--tw-outline-style);outline-width:1px}.focus\:outline-sky-500:focus{outline-color:var(--color-sky-500)}.focus\:invalid\:border-pink-500:focus:invalid{border-color:var(--color-pink-500)}.focus\:invalid\:outline-pink-500:focus:invalid{outline-color:var(--color-pink-500)}@media (min-width:40rem){.sm\:flex{display:flex}}@media (min-width:48rem){.md\:relative{position:relative}.md\:top-6{top:calc(var(--spacing)*6)}.md\:right-15{right:calc(var(--spacing)*15)}.md\:bottom-28{bottom:calc(var(--spacing)*28)}.md\:left-15{left:calc(var(--spacing)*15)}.md\:mt-0{margin-top:calc(var(--spacing)*0)}.md\:\!mr-0{margin-right:calc(var(--spacing)*0)!important}.md\:mb-0{margin-bottom:calc(var(--spacing)*0)}.md\:\!ml-0{margin-left:calc(var(--spacing)*0)!important}.md\:block{display:block}.md\:flex{display:flex}.md\:hidden{display:none}.md\:h-8{height:calc(var(--spacing)*8)}.md\:w-8{width:calc(var(--spacing)*8)}.md\:w-72{width:calc(var(--spacing)*72)}.md\:w-auto{width:auto}.md\:\!max-w-1\/2{max-width:50%!important}.md\:max-w-\[85\%\]{max-width:85%}.md\:basis-1\/2{flex-basis:50%}.md\:flex-row{flex-direction:row}.md\:flex-row-reverse{flex-direction:row-reverse}.md\:items-start{align-items:flex-start}.md\:justify-between{justify-content:space-between}.md\:gap-4{gap:calc(var(--spacing)*4)}.md\:gap-6{gap:calc(var(--spacing)*6)}.md\:gap-12{gap:calc(var(--spacing)*12)}.md\:self-start{align-self:flex-start}.md\:border-\[8px\]{border-style:var(--tw-border-style);border-width:8px}.md\:border-white{border-color:var(--color-white)}.md\:pr-4{padding-right:calc(var(--spacing)*4)}.md\:pl-4{padding-left:calc(var(--spacing)*4)}.md\:text-left{text-align:left}.md\:text-right{text-align:right}.md\:text-2xl{font-size:var(--text-2xl);line-height:var(--tw-leading,var(--text-2xl--line-height))}.md\:text-7xl{font-size:var(--text-7xl);line-height:var(--tw-leading,var(--text-7xl--line-height))}.md\:text-lg{font-size:var(--text-lg);line-height:var(--tw-leading,var(--text-lg--line-height))}}@media (min-width:64rem){.lg\:relative{position:relative}.lg\:right-24{right:calc(var(--spacing)*24)}.lg\:bottom-48{bottom:calc(var(--spacing)*48)}.lg\:left-24{left:calc(var(--spacing)*24)}.lg\:mt-0{margin-top:calc(var(--spacing)*0)}.lg\:mt-20{margin-top:calc(var(--spacing)*20)}.lg\:flex{display:flex}.lg\:\!h-60{height:calc(var(--spacing)*60)!important}.lg\:h-\[500px\]{height:500px}.lg\:h-\[650px\]{height:650px}.lg\:max-w-3\/4{max-width:75%}.lg\:basis-2\/5{flex-basis:40%}.lg\:basis-3\/5{flex-basis:60%}.lg\:basis-4\/6{flex-basis:66.6667%}.lg\:basis-md{flex-basis:var(--container-md)}.lg\:flex-row{flex-direction:row}.lg\:items-center{align-items:center}.lg\:items-start{align-items:flex-start}.lg\:gap-4{gap:calc(var(--spacing)*4)}.lg\:gap-8{gap:calc(var(--spacing)*8)}.lg\:gap-56{gap:calc(var(--spacing)*56)}.lg\:border-none{--tw-border-style:none;border-style:none}.lg\:pr-4{padding-right:calc(var(--spacing)*4)}.lg\:pl-4{padding-left:calc(var(--spacing)*4)}.lg\:text-left{text-align:left}.lg\:text-right{text-align:right}.lg\:text-2xl{font-size:var(--text-2xl);line-height:var(--tw-leading,var(--text-2xl--line-height))}}}@font-face{font-family:NimbusSans;src:url(assets/fonts/NimbusSanL-Reg.otf);font-weight:400;font-style:normal}*{box-sizing:border-box;font-family:NimbusSans,sans-serif;font-weight:lighter}::selection{color:#fff;background-color:#120ce8}footer ::selcetion{color:#120ce8;background-color:#fff}body{scroll-snap-type:y mandatory;scroll-behavior:smooth;margin:0;overflow-y:scroll}body>section{scroll-snap-align:start}.layer{z-index:-10;background-image:linear-gradient(#0000 50%,#000 100%);width:100%;height:100%;position:absolute;top:0;left:0}li,a{cursor:pointer}button{color:#fff;cursor:pointer;background-color:#120ce8;padding:.25rem .5rem;font-size:x-small;font-weight:lighter}.container{max-width:95%;margin:0 auto;padding:0 32px}section h3:first-of-type{font-size:clamp(2rem,5vw,3rem)}#hero{background-image:url(assets/college.jpg);background-position:30% 10%;background-repeat:no-repeat;background-size:cover;margin-top:3px;height:calc(100vh - 50px)!important}@media (min-width:1024px){#hero{background-position:0 100%}}#hero h2{color:#fff;text-shadow:0 0 10px #000;font-size:clamp(1.5rem,8vw,4rem)}.academic-excellence>div>div{padding:1rem;position:relative}.academic-excellence>div>div:before{content:"";background-color:#d3d3d3;width:2px;height:100%;position:absolute;top:0;left:0}.academic-excellence i{color:#fff;position:relative}.academic-excellence i:before{content:"";background-color:#120ce8;width:100%;height:100%;position:absolute;top:0;left:0}.academic-excellence svg{border-radius:20%;margin-bottom:.75rem}.academic-excellence h5{color:#120ce8;margin:.25rem 0;font-size:1.2rem;font-weight:700}.academic-excellence h6{font-size:.9rem;font-weight:700}.department .figure{z-index:-20;background-repeat:no-repeat;background-size:cover;background-attachment:fixed;overflow:hidden}.department .figure.computer-science{background-image:url(assets/computer-science-1.jpg)}.department .figure.information-systems{background-image:url(assets/information-systems.jpg)}.department .figure.information-technology{background-image:url(assets/information-technology.jpg);background-position:0}@media (max-width:1024px){.department .figure{background-attachment:initial}}.department{min-width:300px;transition:flex-grow .7s}.department:hover{flex-grow:17}.department .statistics{flex-direction:column;gap:.25rem;margin-top:.5rem;display:flex}.department .statistics span:first-child{color:#85858a;font-size:.8rem}.department .statistics span:last-child{font-size:1.4rem}.form__group>*{display:block}.form__group>input,textarea{resize:none;border:1px solid #d3d3d3;border-radius:.25rem;width:100%;margin-bottom:.75rem;padding:.25rem}footer .links li{padding-bottom:.5rem}footer .links li:hover{color:#fff;transition:all .2s}@property --tw-rotate-x{syntax:"*";inherits:false}@property --tw-rotate-y{syntax:"*";inherits:false}@property --tw-rotate-z{syntax:"*";inherits:false}@property --tw-skew-x{syntax:"*";inherits:false}@property --tw-skew-y{syntax:"*";inherits:false}@property --tw-border-style{syntax:"*";inherits:false;initial-value:solid}@property --tw-font-weight{syntax:"*";inherits:false}@property --tw-shadow{syntax:"*";inherits:false;initial-value:0 0 #0000}@property --tw-shadow-color{syntax:"*";inherits:false}@property --tw-shadow-alpha{syntax:"<percentage>";inherits:false;initial-value:100%}@property --tw-inset-shadow{syntax:"*";inherits:false;initial-value:0 0 #0000}@property --tw-inset-shadow-color{syntax:"*";inherits:false}@property --tw-inset-shadow-alpha{syntax:"<percentage>";inherits:false;initial-value:100%}@property --tw-ring-color{syntax:"*";inherits:false}@property --tw-ring-shadow{syntax:"*";inherits:false;initial-value:0 0 #0000}@property --tw-inset-ring-color{syntax:"*";inherits:false}@property --tw-inset-ring-shadow{syntax:"*";inherits:false;initial-value:0 0 #0000}@property --tw-ring-inset{syntax:"*";inherits:false}@property --tw-ring-offset-width{syntax:"<length>";inherits:false;initial-value:0}@property --tw-ring-offset-color{syntax:"*";inherits:false;initial-value:#fff}@property --tw-ring-offset-shadow{syntax:"*";inherits:false;initial-value:0 0 #0000}@property --tw-duration{syntax:"*";inherits:false}@property --tw-content{syntax:"*";inherits:false;initial-value:""}@property --tw-outline-style{syntax:"*";inherits:false;initial-value:solid}

diff --git a/departments/information-systems-ar.html b/departments/information-systems-ar.html
@@ -107,7 +107,7 @@
   <section id="topics">
     <div class="container flex flex-col gap-10 !mb-16">
       <div
-        class="excellence text-center md:text-right mt-16 flex flex-col-reverse md:flex-row-reverse gap-4 md:gap-12 items-center justify-between">
+        class="excellence text-center md:text-right mt-16 flex flex-col-reverse md:flex-row gap-4 md:gap-12 items-center justify-between">
         <button class="text-nowrap">انضم إلينا</button>
         <p class="text-xs">
           يجمع قسم نظم المعلومات بين التكنولوجيا والاستراتيجية. استكشف

diff --git a/departments/information-technology-ar.html b/departments/information-technology-ar.html
@@ -109,7 +109,7 @@
   <section id="topics">
     <div class="container flex flex-col gap-10 !mb-16">
       <div
-        class="excellence text-center md:text-right mt-16 flex flex-col-reverse md:flex-row-reverse gap-4 md:gap-12 items-center justify-between">
+        class="excellence text-center md:text-right mt-16 flex flex-col-reverse md:flex-row gap-4 md:gap-12 items-center justify-between">
         <button class="text-nowrap">انضم إلينا</button>
         <p class="text-xs">
           يجمع قسم نظم المعلومات بين التكنولوجيا والاستراتيجية. استكشف

diff --git a/departments/departments.css b/departments/departments.css
@@ -17,3 +17,24 @@
 #dept .layer {
   border-radius: 0.75rem
 }
+
+#dept .container {
+  
+  @media (min-width: 768px) {
+    margin-bottom: -5rem;
+  }
+
+  @media (min-width: 992px) {
+    margin-bottom: -10rem;
+  }
+}
+
+#staff .container {
+  @media (min-width: 768px) {
+    margin-top: 6rem;
+  }
+
+  @media (min-width: 992px) {
+    margin-top: 8rem;
+  }
+}
